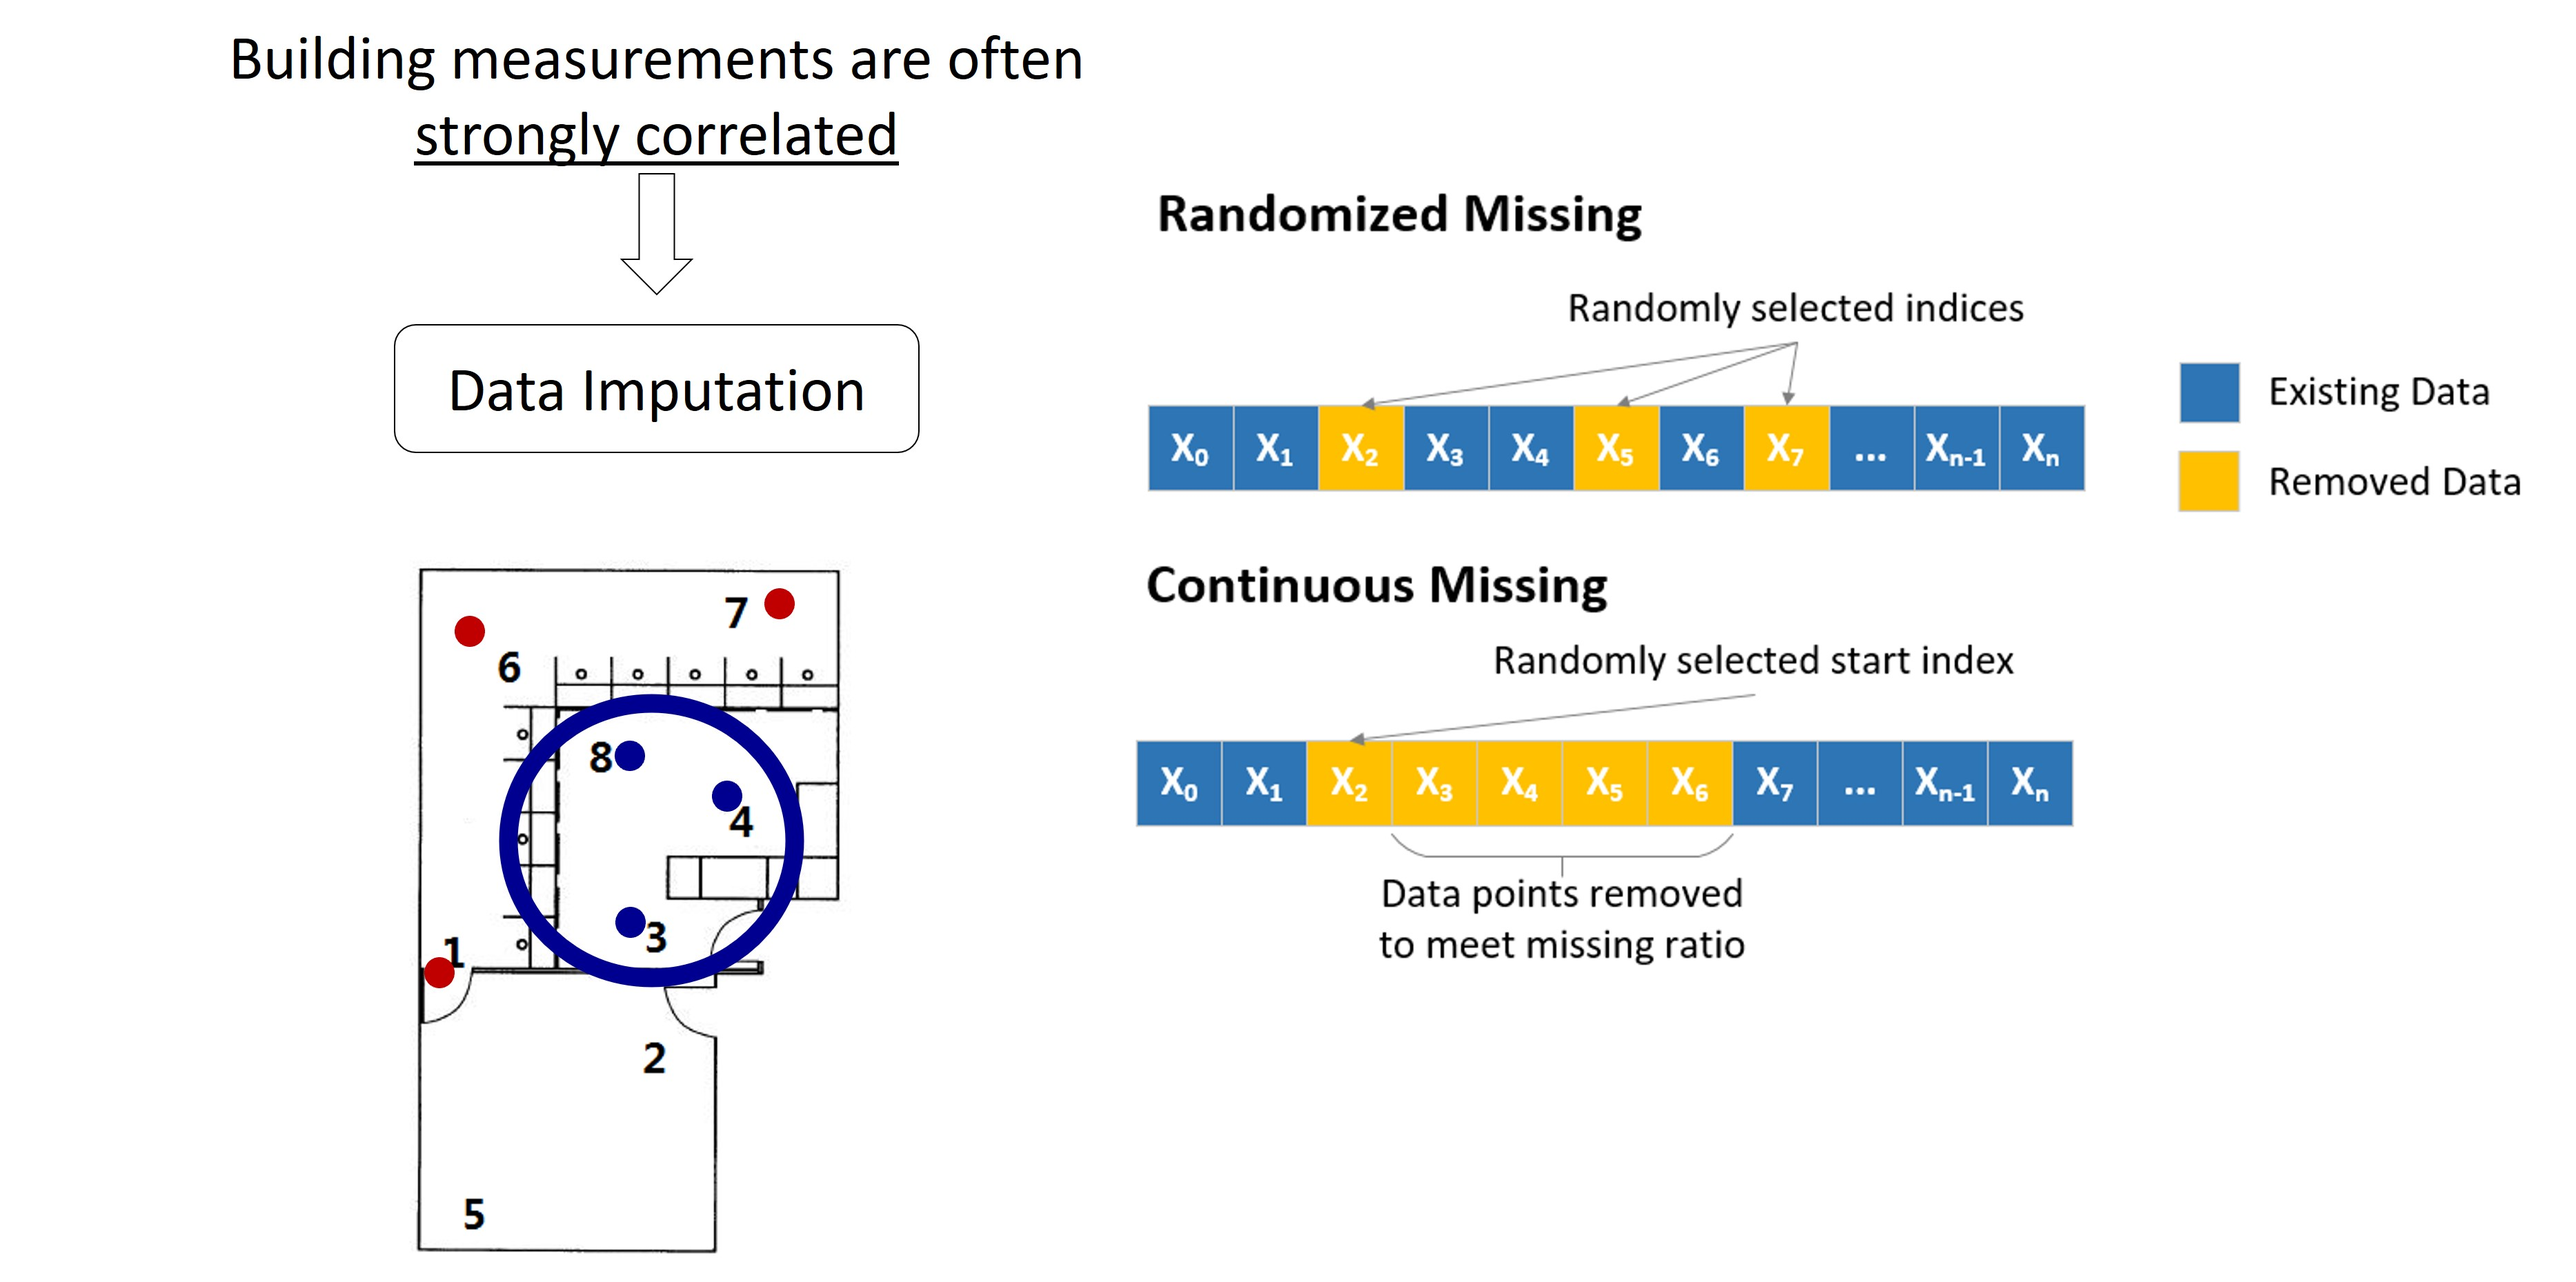
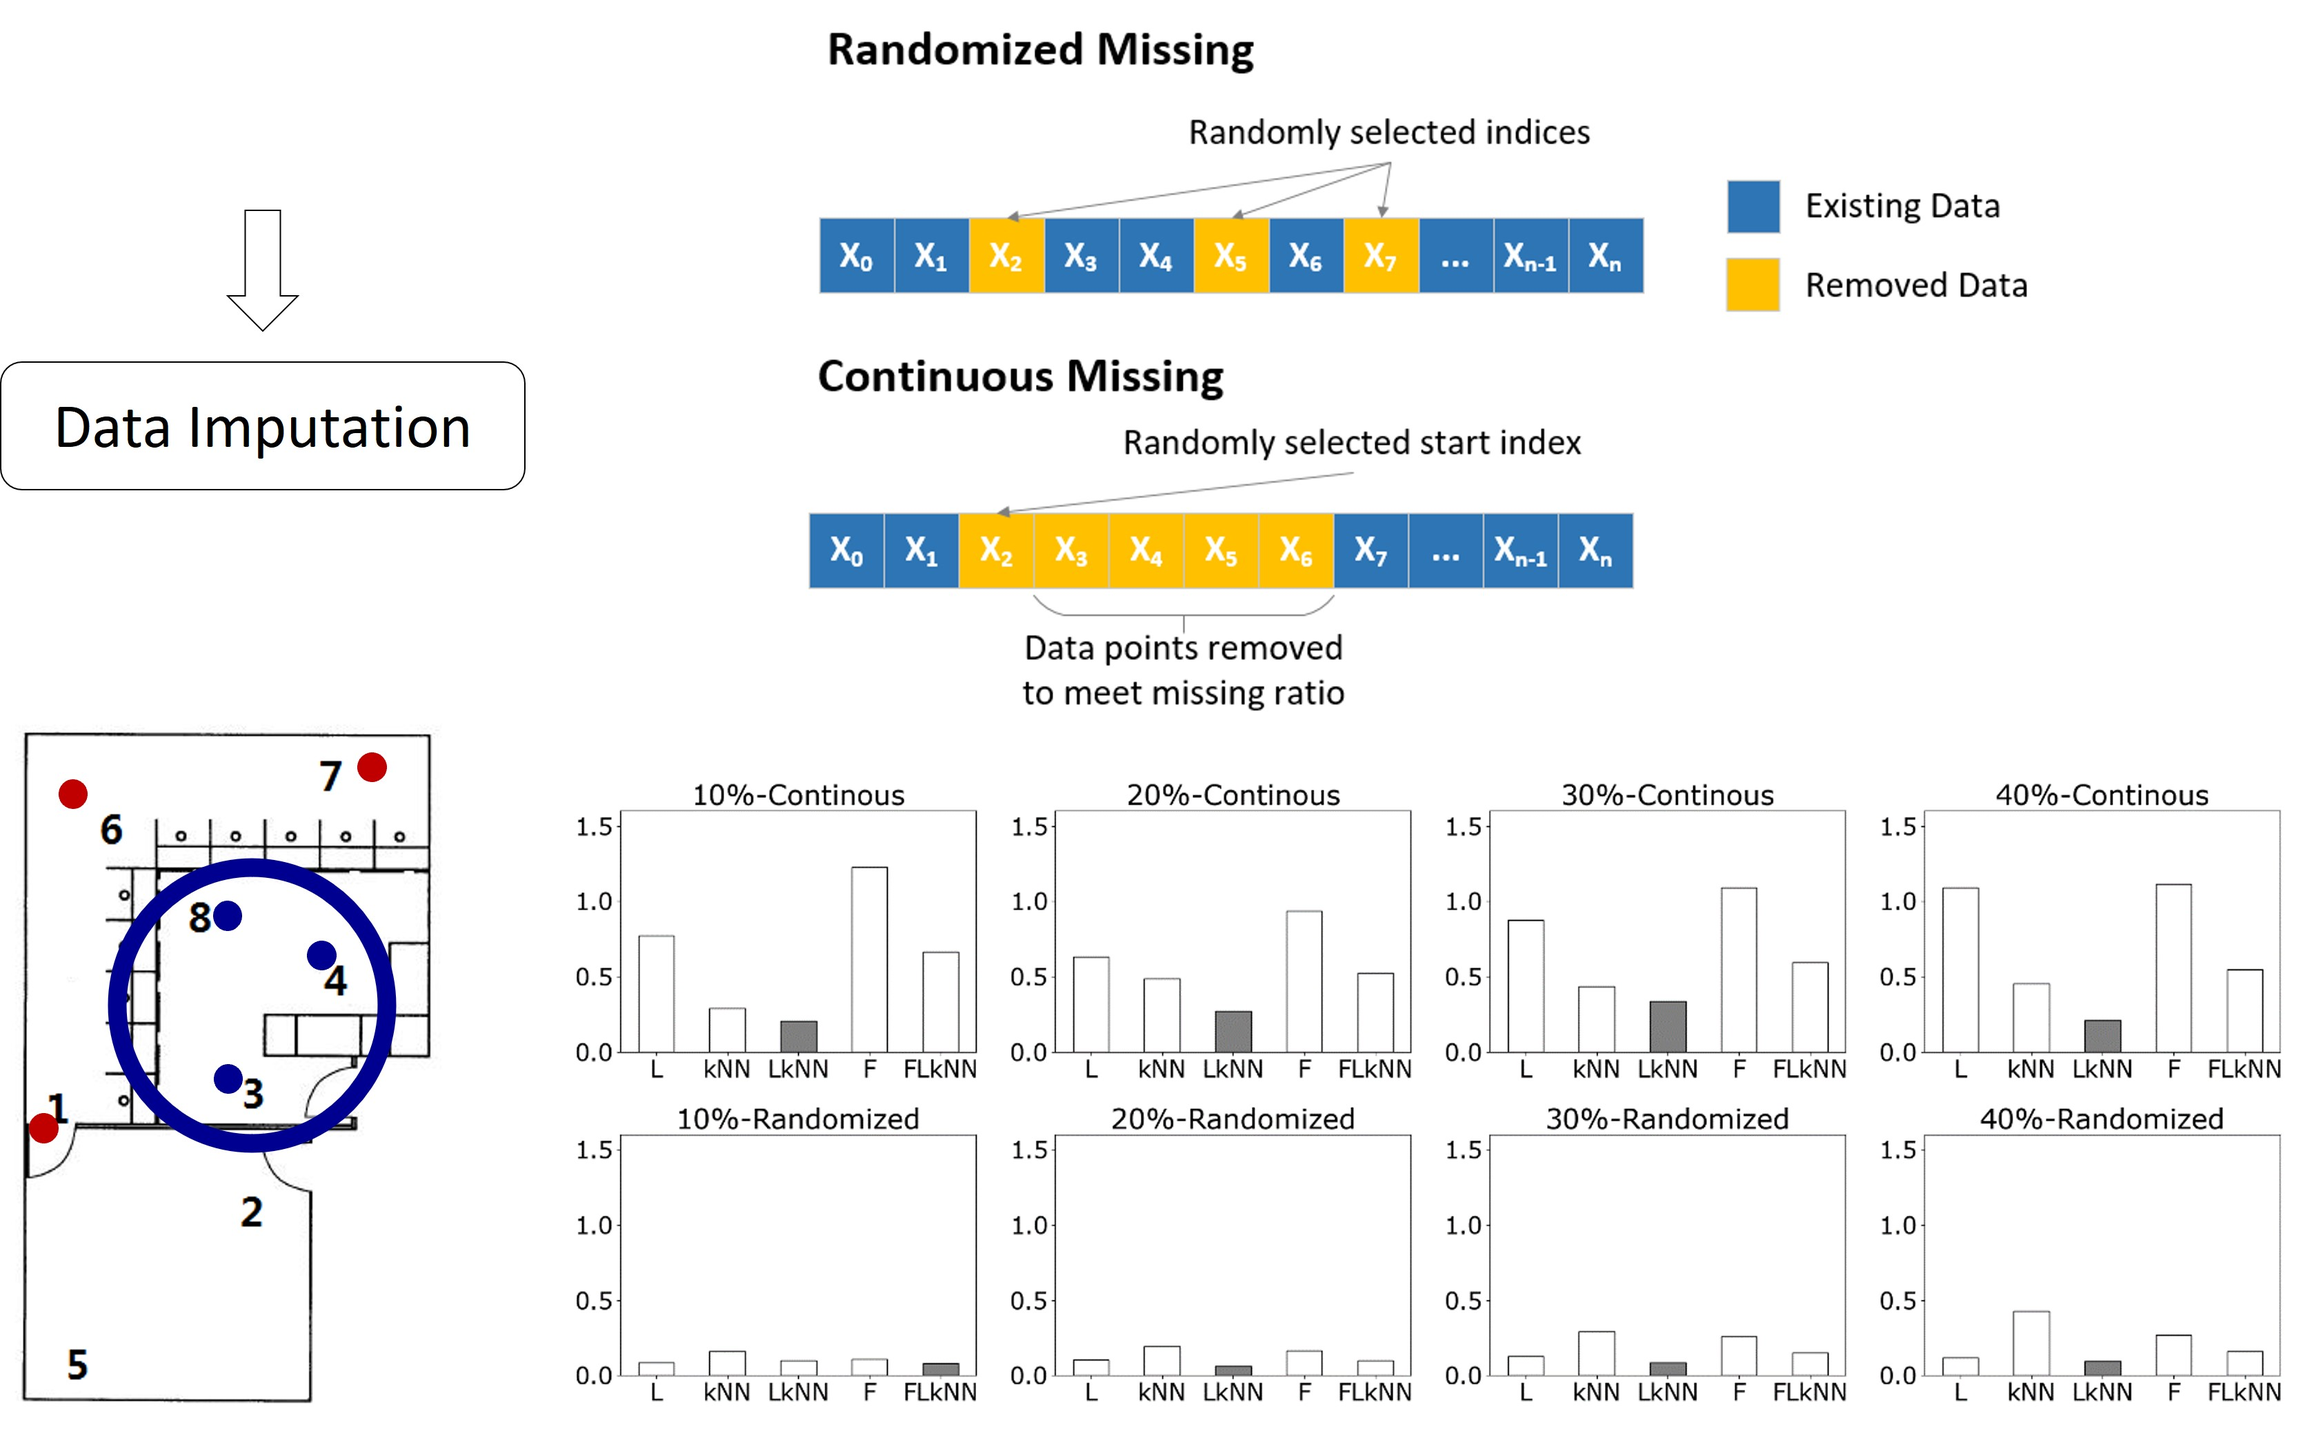
research updates

diff --git a/research/fdd.md b/research/fdd.md
@@ -4,7 +4,11 @@ title: "Fault Detection and Diagnosis (FDD)"
 ---
 
 <div class="row-md-6" style="text-align: justify">
-    US Department of Energy CYDRES: <a href="https://www.energy.gov/eere/buildings/articles/securing-grid-interactive-efficient-buildings-geb-through-cyber-defense-and" target="blank"> https://www.energy.gov/eere/buildings/articles/securing-grid-interactive-efficient-buildings-geb-through-cyber-defense-and</a>
+    Buildings are subject to faults in their heating, ventilation and air-conditioning (HVAC) systems that can lead to excessive energy wastage, poor indoor climate, equipment failures and high maintenance costs.  Field studies have shown that employing fault detection and diagnosis (FDD) tools followed up with equipment services and corrections can help achieve 10-40% of energy savings within the HVAC system and improve indoor climate, increase equipment lifecycle and reduce maintenance costs. Within the FDD framework, fault detection determines whether the HVAC system has failures or incorrect operations in a system, whereas, fault diagnosis process localizes the root cause of the faulty operation.
+    
+    <a href="https://www.energy.gov/eere/buildings/articles/securing-grid-interactive-efficient-buildings-geb-through-cyber-defense-and" target="blank"> CYDRES Project - Funded by US Department of Energy </a>
+    Research, development, and demonstration a real-time advanced building resilient platform, called CYber Defense and REsilient System (CYDRES), deployable for existing and emerging Building Automation Systems (BAS), to empower GEB with cyber-attack-immune capabilities through multi-layer prevention, detection, and adaptation.
+    
   <div class="row md-6">
   <img src="{{ site.github.url }}/assets/img/diagnosis.jpg" width="25%" height="25%">
 </div>

diff --git a/research/data-imputation.md b/research/data-imputation.md
@@ -4,7 +4,7 @@ title: "Data Imputation"
 ---
 
 <div class="row-md-6" style="text-align: justify">
-  Increasing advancements in building digitization, smart sensing, and metering technologies have allowed large amounts of data to be collected and saved for monitoring, analyzing, and controlling building systems. However, due to sensor or communication failures, the data collected are often incomplete and poor in quality. Data imputation approaches to replace the missing values, specifically based on both statistical and predictive models have been widely adopted for multivariate datasets. It is of interest to find an effective way to impute building system data by leveraging the mutual information from strongly correlated sensors.
+  Increasing advancements in building digitization, smart sensing, and metering technologies have allowed large amounts of data to be collected and saved for monitoring, analyzing, and controlling building systems. However, due to sensor or communication failures, the data collected are often incomplete and poor in quality. Data imputation approaches to replace the missing values, specifically based on both statistical and predictive models have been widely adopted for multivariate datasets. It is of interest to find an effective way to impute building system data by leveraging the mutual information from strongly correlated sensors. Incorporating the time-lagged cross-correlation in the kNN method helps accheive good imputation accuracy without affecting the quality of subsequent data analysis.
   <br>
 
   <div class="row md-6">
